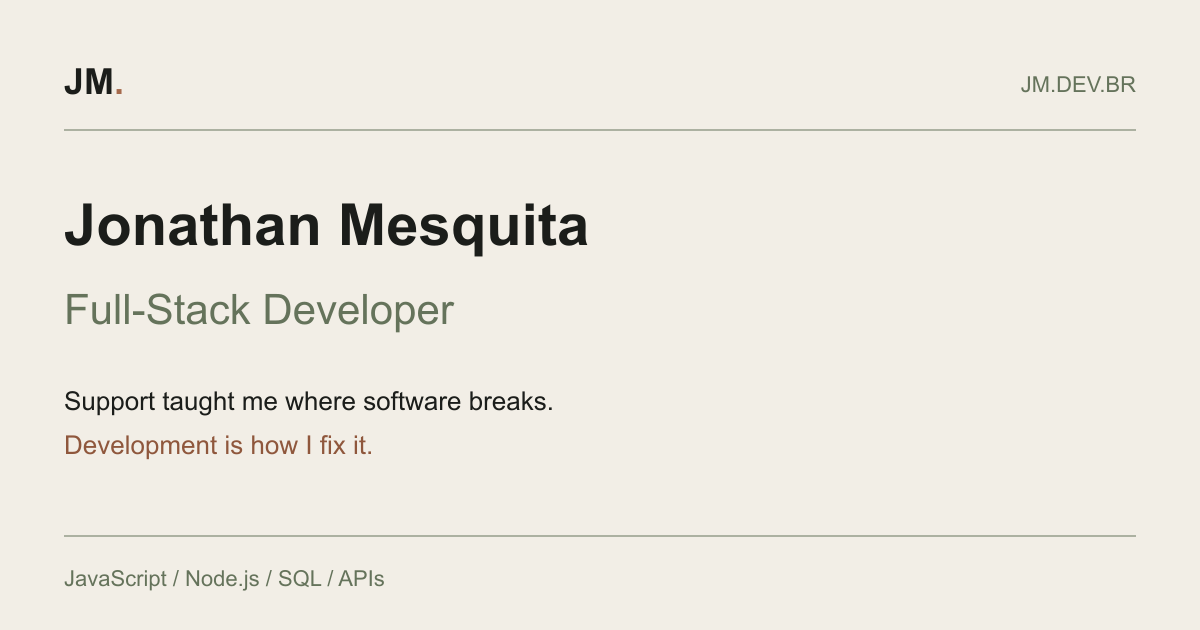
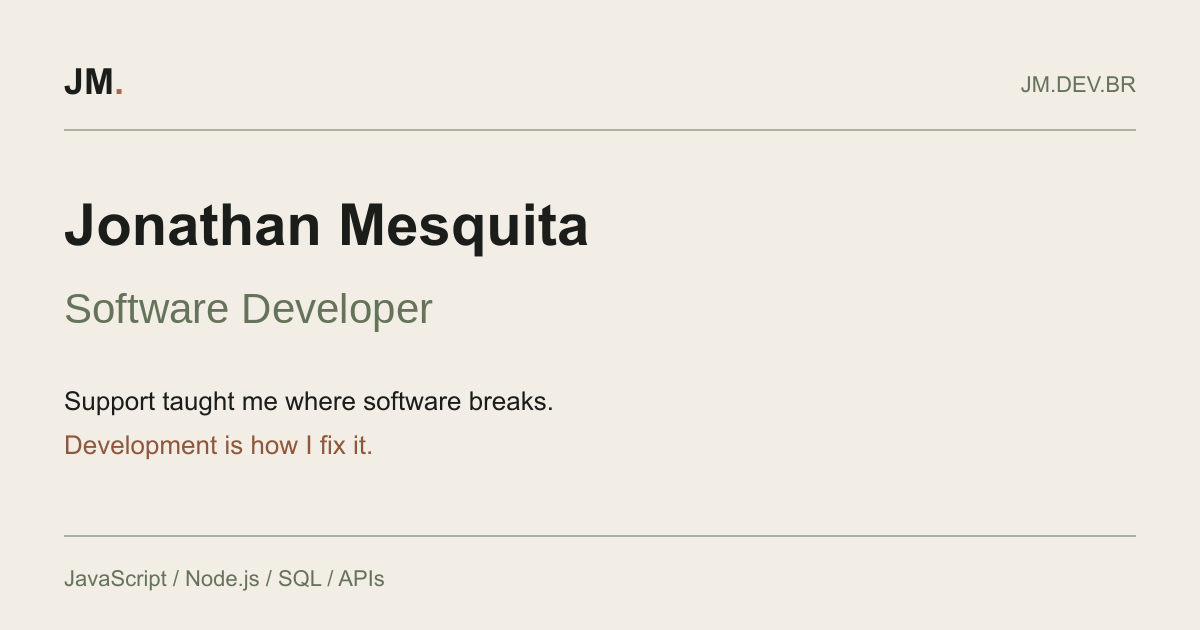
feat(role): o cargo passa a ser "Software Developer" no título, nos metadados, no schema e no hero
Decisão do dono. "Full-Stack Developer" afirmava mais do que o público consegue conferir: o que
se vê (Arriba Platform, Focus JM, Nutri JM) é JavaScript no navegador, com testes; o lado servidor
(Arriba API) é privado. "Software Developer" cobre o que está à vista e o que ele quer ser.

Troca: <title>, og:title, twitter:title, as duas descrições sociais, jobTitle do schema.org e o
selo do hero (com a tradução "Desenvolvedor de software" em src/i18n.js). A imagem social da home
tinha o cargo desenhado nela: refeita só a linha do cargo, com a mesma fonte, tamanho e cor
(reprodução do texto antigo conferida: erro médio de 2,3 em 255 por pixel; nenhum pixel mudou fora
da linha), senão o cartão de link continuaria dizendo o cargo antigo.

Ficam como estavam, de propósito: "Focus: Front-end → Full Stack" no About (descreve o caminho) e a
categoria "Full-stack platform" do Arriba Platform (descreve o projeto, que tem front e API Node).

Teste novo: título, og, twitter, schema e hero dizem Software Developer, e o PT traduz o selo.
Falha se qualquer peça voltar ao cargo antigo (conferido desfazendo o jobTitle).

Claude-Session: https://claude.ai/code/session_01A5MEJ7FxVog9s1wK9Co395

Changed region(s): [[0.0308, 0.4524, 0.4008, 0.5429]]

diff --git a/index.html b/index.html
@@ -6,7 +6,7 @@
 
   <meta name="viewport" content="width=device-width, initial-scale=1.0" />
 
-  <title>Jonathan Mesquita | Full-Stack Developer</title>
+  <title>Jonathan Mesquita | Software Developer</title>
 
   <meta name="description"
     content="Portfolio of Jonathan Mesquita, a developer building practical web products with JavaScript, Node.js, SQL and APIs. Browse live projects with video previews." />
@@ -31,7 +31,7 @@
 
   <meta property="og:type" content="website" />
 
-  <meta property="og:title" content="Jonathan Mesquita | Full-Stack Developer" />
+  <meta property="og:title" content="Jonathan Mesquita | Software Developer" />
 
   <meta property="og:description"
     content="Developer portfolio focused on JavaScript, Node.js, SQL, APIs and practical web products." />
@@ -51,7 +51,7 @@
   <meta property="og:image:height" content="630" />
 
   <meta property="og:image:alt"
-    content="Jonathan Mesquita — Full-Stack Developer. JavaScript, Node.js, SQL and APIs." />
+    content="Jonathan Mesquita — Software Developer. JavaScript, Node.js, SQL and APIs." />
 
   <!-- ==============================
          Twitter / Social
@@ -59,7 +59,7 @@
 
   <meta name="twitter:card" content="summary_large_image" />
 
-  <meta name="twitter:title" content="Jonathan Mesquita | Full-Stack Developer" />
+  <meta name="twitter:title" content="Jonathan Mesquita | Software Developer" />
 
   <meta name="twitter:description"
     content="Developer portfolio focused on JavaScript, Node.js, SQL, APIs and practical web products." />
@@ -67,7 +67,7 @@
   <meta name="twitter:image" content="https://jm.dev.br/og-image.png" />
 
   <meta name="twitter:image:alt"
-    content="Jonathan Mesquita — Full-Stack Developer. JavaScript, Node.js, SQL and APIs." />
+    content="Jonathan Mesquita — Software Developer. JavaScript, Node.js, SQL and APIs." />
 
   <!-- ==============================
          Icons
@@ -88,7 +88,7 @@
         "@context": "https://schema.org",
         "@type": "Person",
         "name": "Jonathan Mesquita",
-        "jobTitle": "Full-Stack Developer",
+        "jobTitle": "Software Developer",
         "url": "https://jm.dev.br/",
         "address": {
           "@type": "PostalAddress",
@@ -154,7 +154,7 @@
       <section class="hero">
         <div class="hero-meta">
           <span>
-            Full-stack developer
+            Software developer
           </span>
 
           <span class="hero-status">

diff --git a/src/i18n.js b/src/i18n.js
@@ -24,7 +24,7 @@ const PT = {
   Experience: "Experiência",
   Capabilities: "Competências",
   Contact: "Contato",
-  "Full-stack developer": "Desenvolvedor full-stack",
+  "Software developer": "Desenvolvedor de software",
   "Open to opportunities": "Aberto a oportunidades",
   "Support taught me": "O suporte me ensinou",
   "where software breaks.": "onde o software quebra.",
